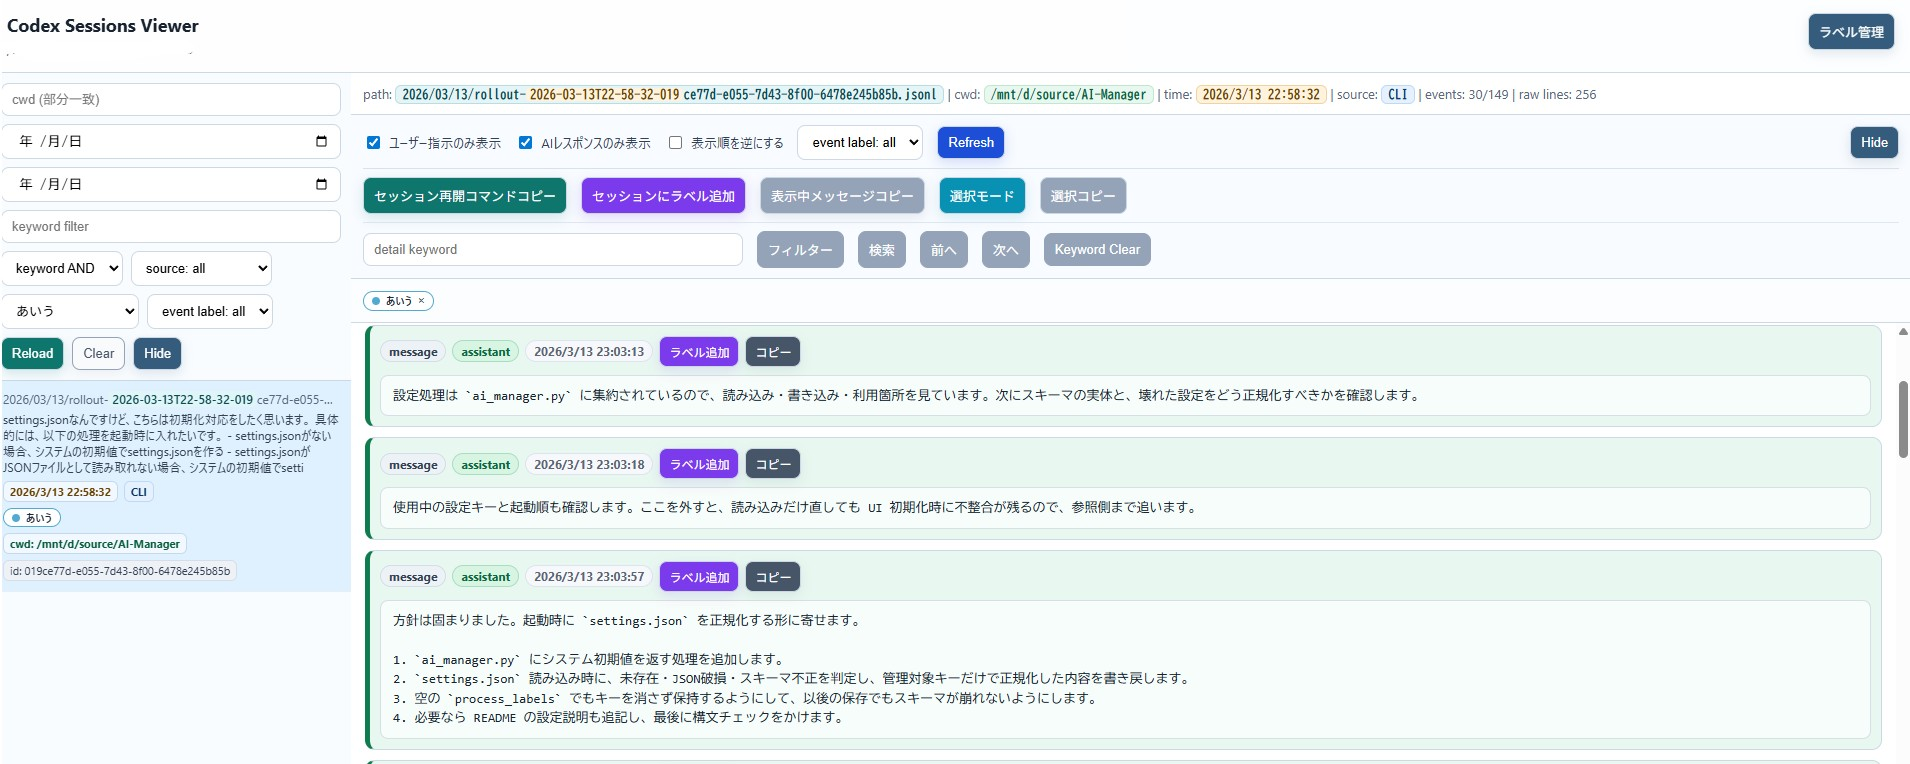
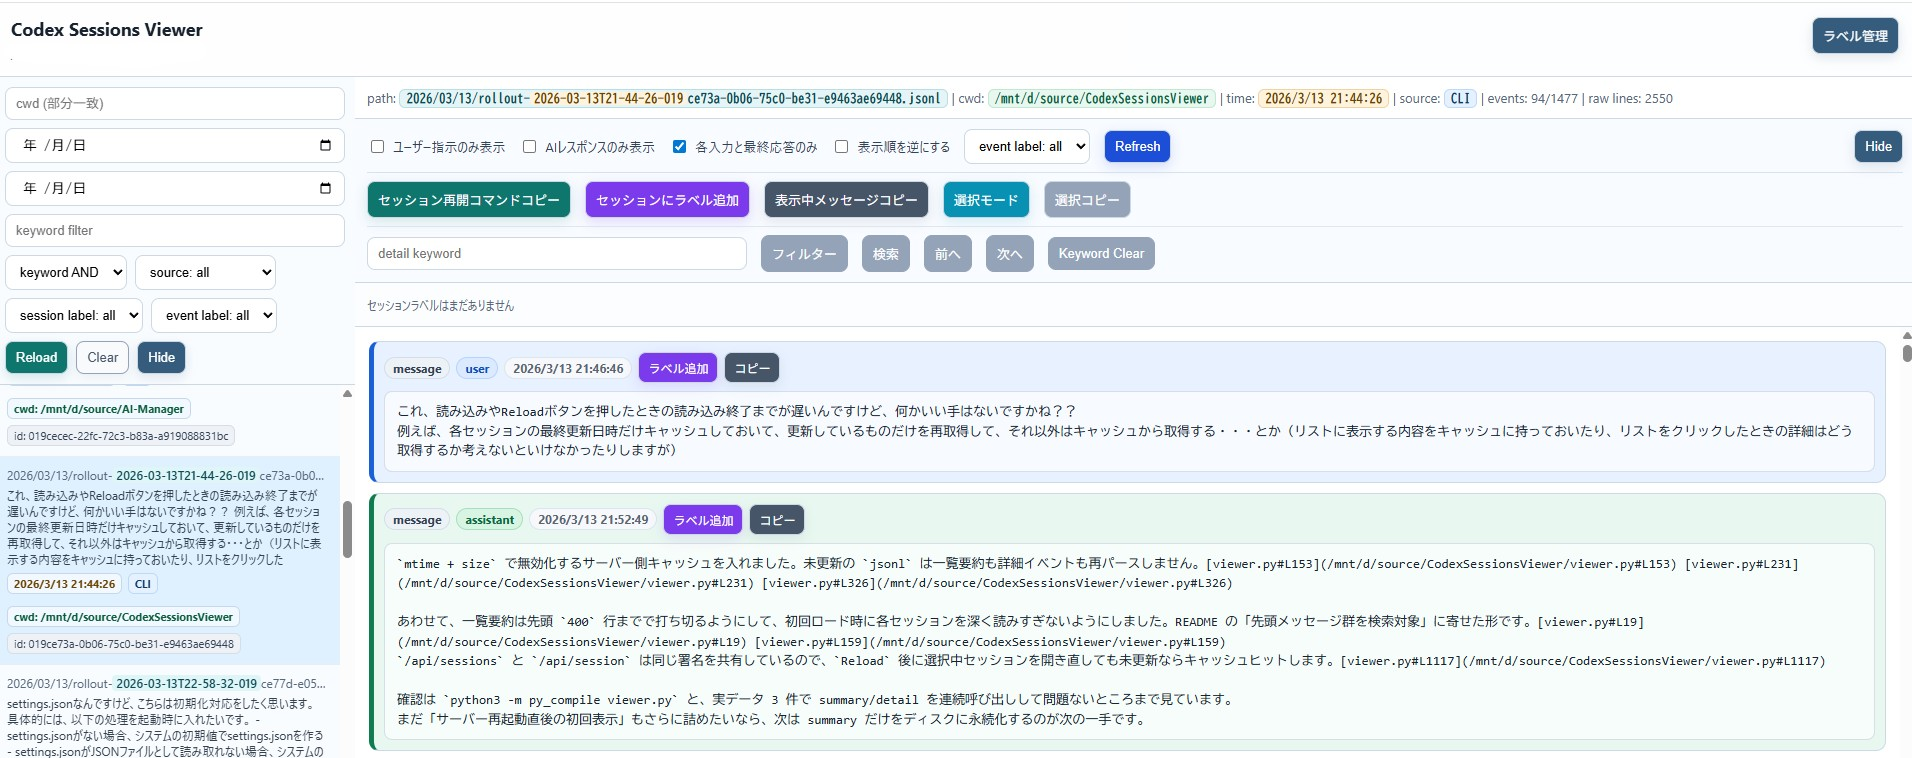
- 各入力と最終応答のみフィルター実装

diff --git a/viewer.py b/viewer.py
@@ -1914,6 +1914,7 @@ pre {
       <div class="detail-toolbar-row primary">
         <label><input type="checkbox" id="only_user_instruction" /> ユーザー指示のみ表示</label>
         <label><input type="checkbox" id="only_ai_response" /> AIレスポンスのみ表示</label>
+        <label title="各ターンの user 入力と、その直後の最後の assistant 応答だけを表示"><input type="checkbox" id="turn_boundary_only" /> 各入力と最終応答のみ</label>
         <label><input type="checkbox" id="reverse_order" /> 表示順を逆にする</label>
         <select id="detail_event_label_filter">
           <option value="">event label: all</option>
@@ -2128,6 +2129,49 @@ function getSelectedListEventLabelFilter(){
 
 function getSelectedDetailEventLabelFilter(){
   return document.getElementById('detail_event_label_filter').value || '';
+}
+
+function isTurnBoundaryFilterEnabled(){
+  const checkbox = document.getElementById('turn_boundary_only');
+  return !!(checkbox && checkbox.checked);
+}
+
+function filterEventsToTurnBoundaries(events){
+  if(!Array.isArray(events) || events.length === 0){
+    return Array.isArray(events) ? events : [];
+  }
+  const filtered = [];
+  let pendingUser = null;
+  let lastAssistant = null;
+
+  function flushTurn(){
+    if(!pendingUser){
+      return;
+    }
+    filtered.push(pendingUser);
+    if(lastAssistant){
+      filtered.push(lastAssistant);
+    }
+    pendingUser = null;
+    lastAssistant = null;
+  }
+
+  events.forEach(ev => {
+    if(ev.kind !== 'message'){
+      return;
+    }
+    if(ev.role === 'user'){
+      flushTurn();
+      pendingUser = ev;
+      return;
+    }
+    if(ev.role === 'assistant' && pendingUser){
+      lastAssistant = ev;
+    }
+  });
+
+  flushTurn();
+  return filtered;
 }
 
 function populateLabelSelect(selectId, allLabel){
@@ -3063,6 +3107,9 @@ function renderSessionList(){
 
 function getDisplayEvents(){
   let events = state.activeEvents || [];
+  if(isTurnBoundaryFilterEnabled()){
+    events = filterEventsToTurnBoundaries(events);
+  }
   const selectedEventLabelId = getSelectedDetailEventLabelFilter();
   if(selectedEventLabelId){
     events = events.filter(ev => (ev.labels || []).some(label => String(label.id) === selectedEventLabelId));
@@ -3459,6 +3506,9 @@ document.getElementById('only_user_instruction').addEventListener('change', () =
   renderActiveSession();
 });
 document.getElementById('only_ai_response').addEventListener('change', () => {
+  renderActiveSession();
+});
+document.getElementById('turn_boundary_only').addEventListener('change', () => {
   renderActiveSession();
 });
 document.getElementById('reverse_order').addEventListener('change', () => {
